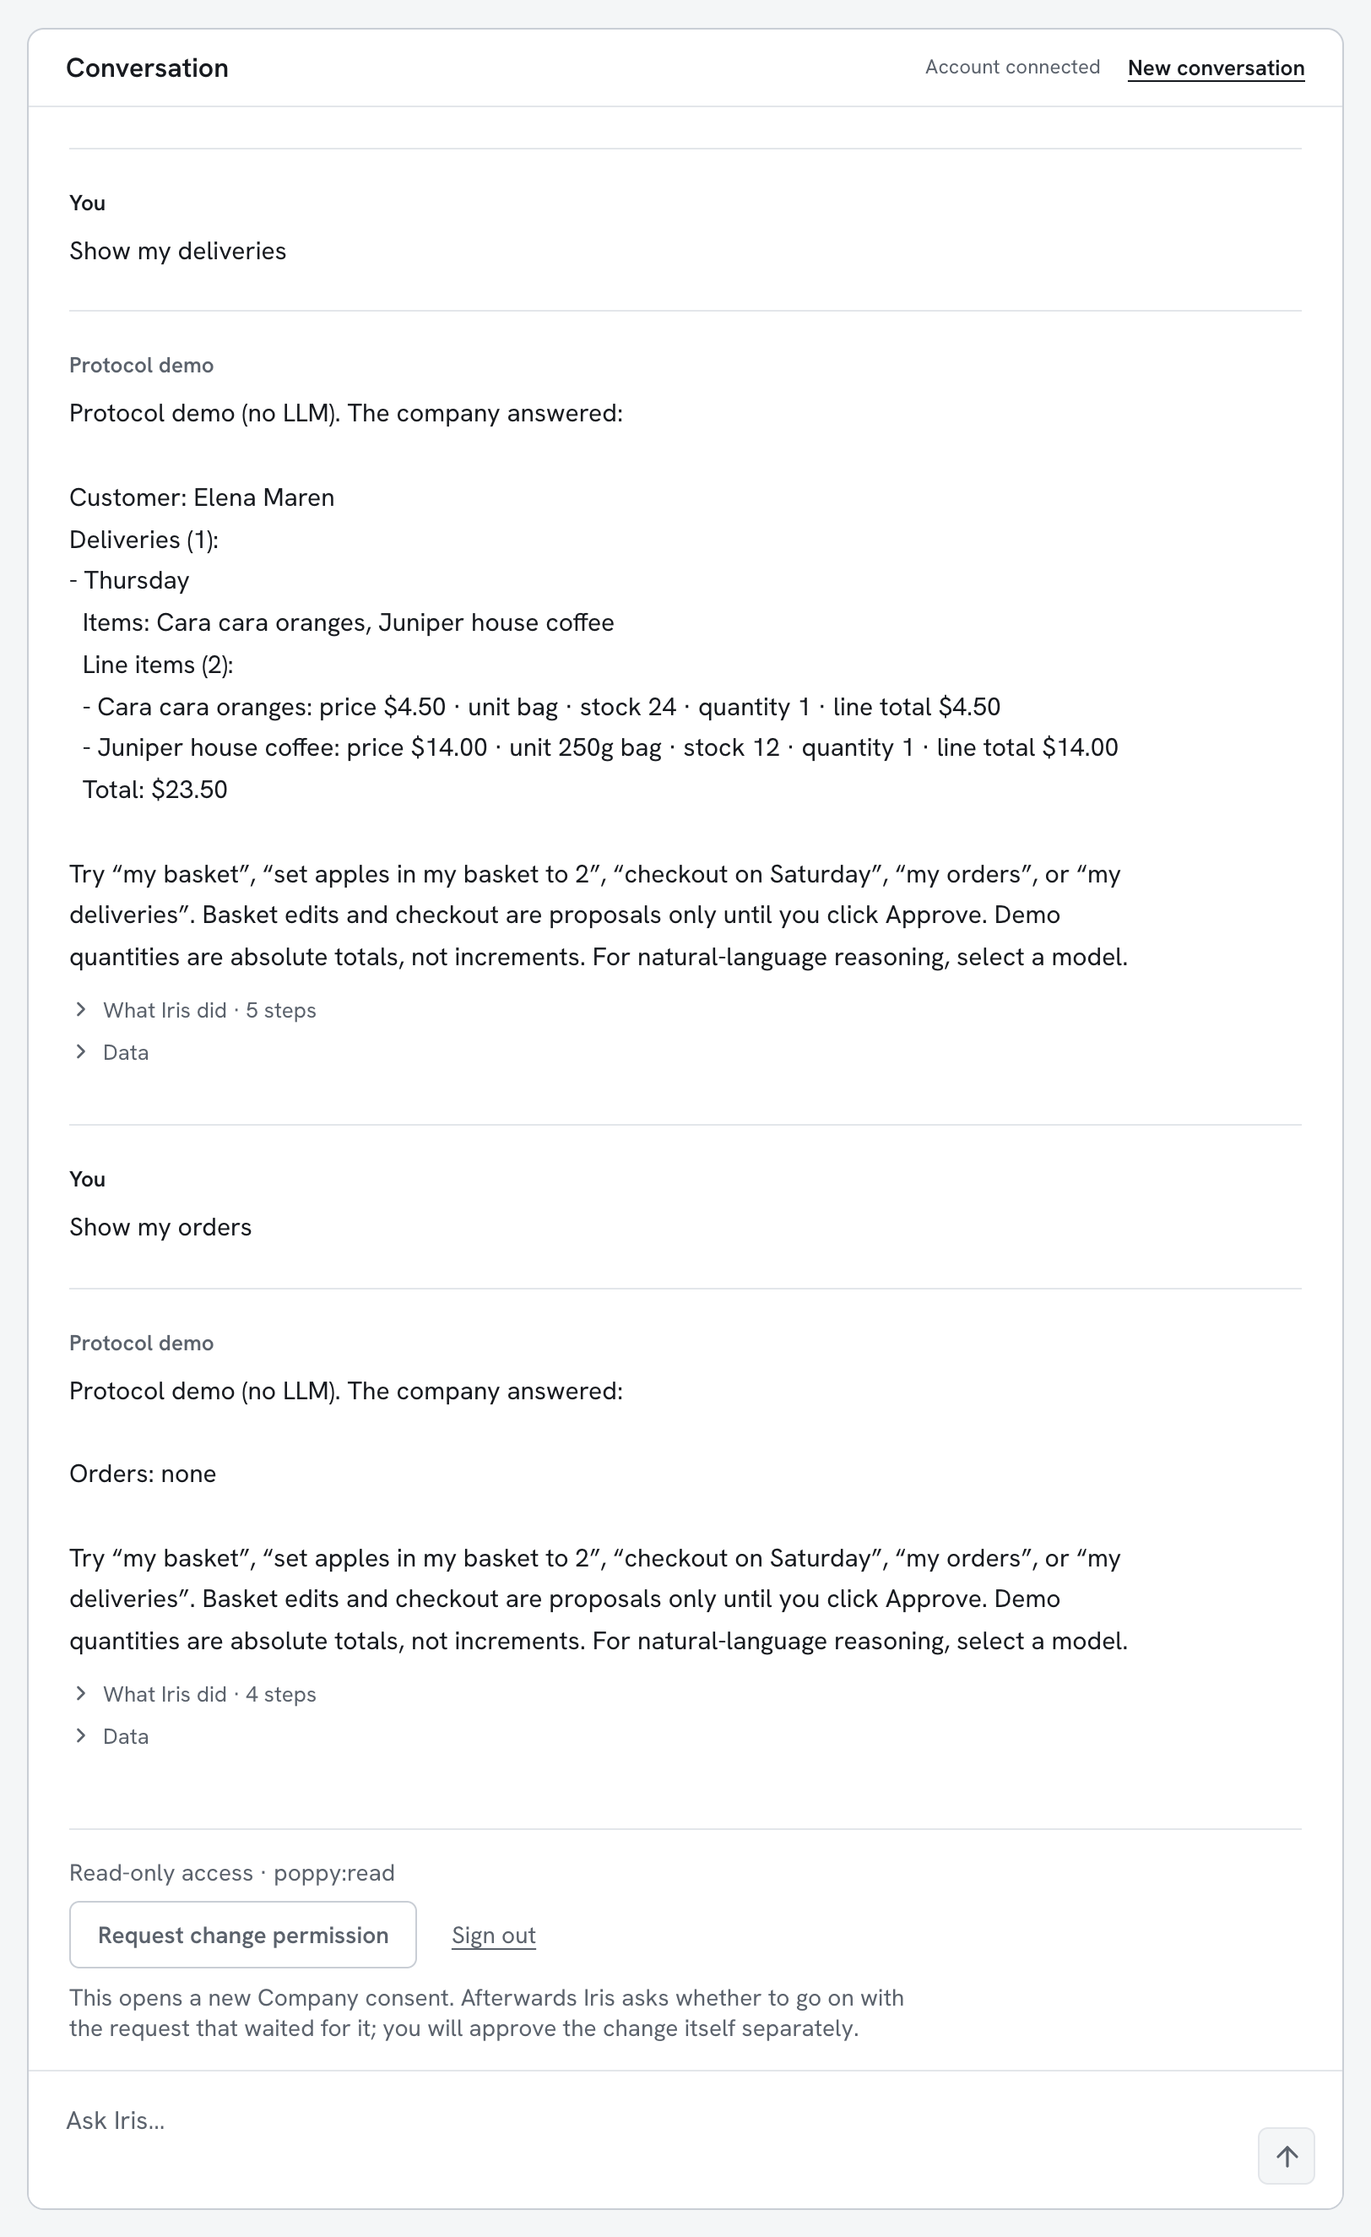
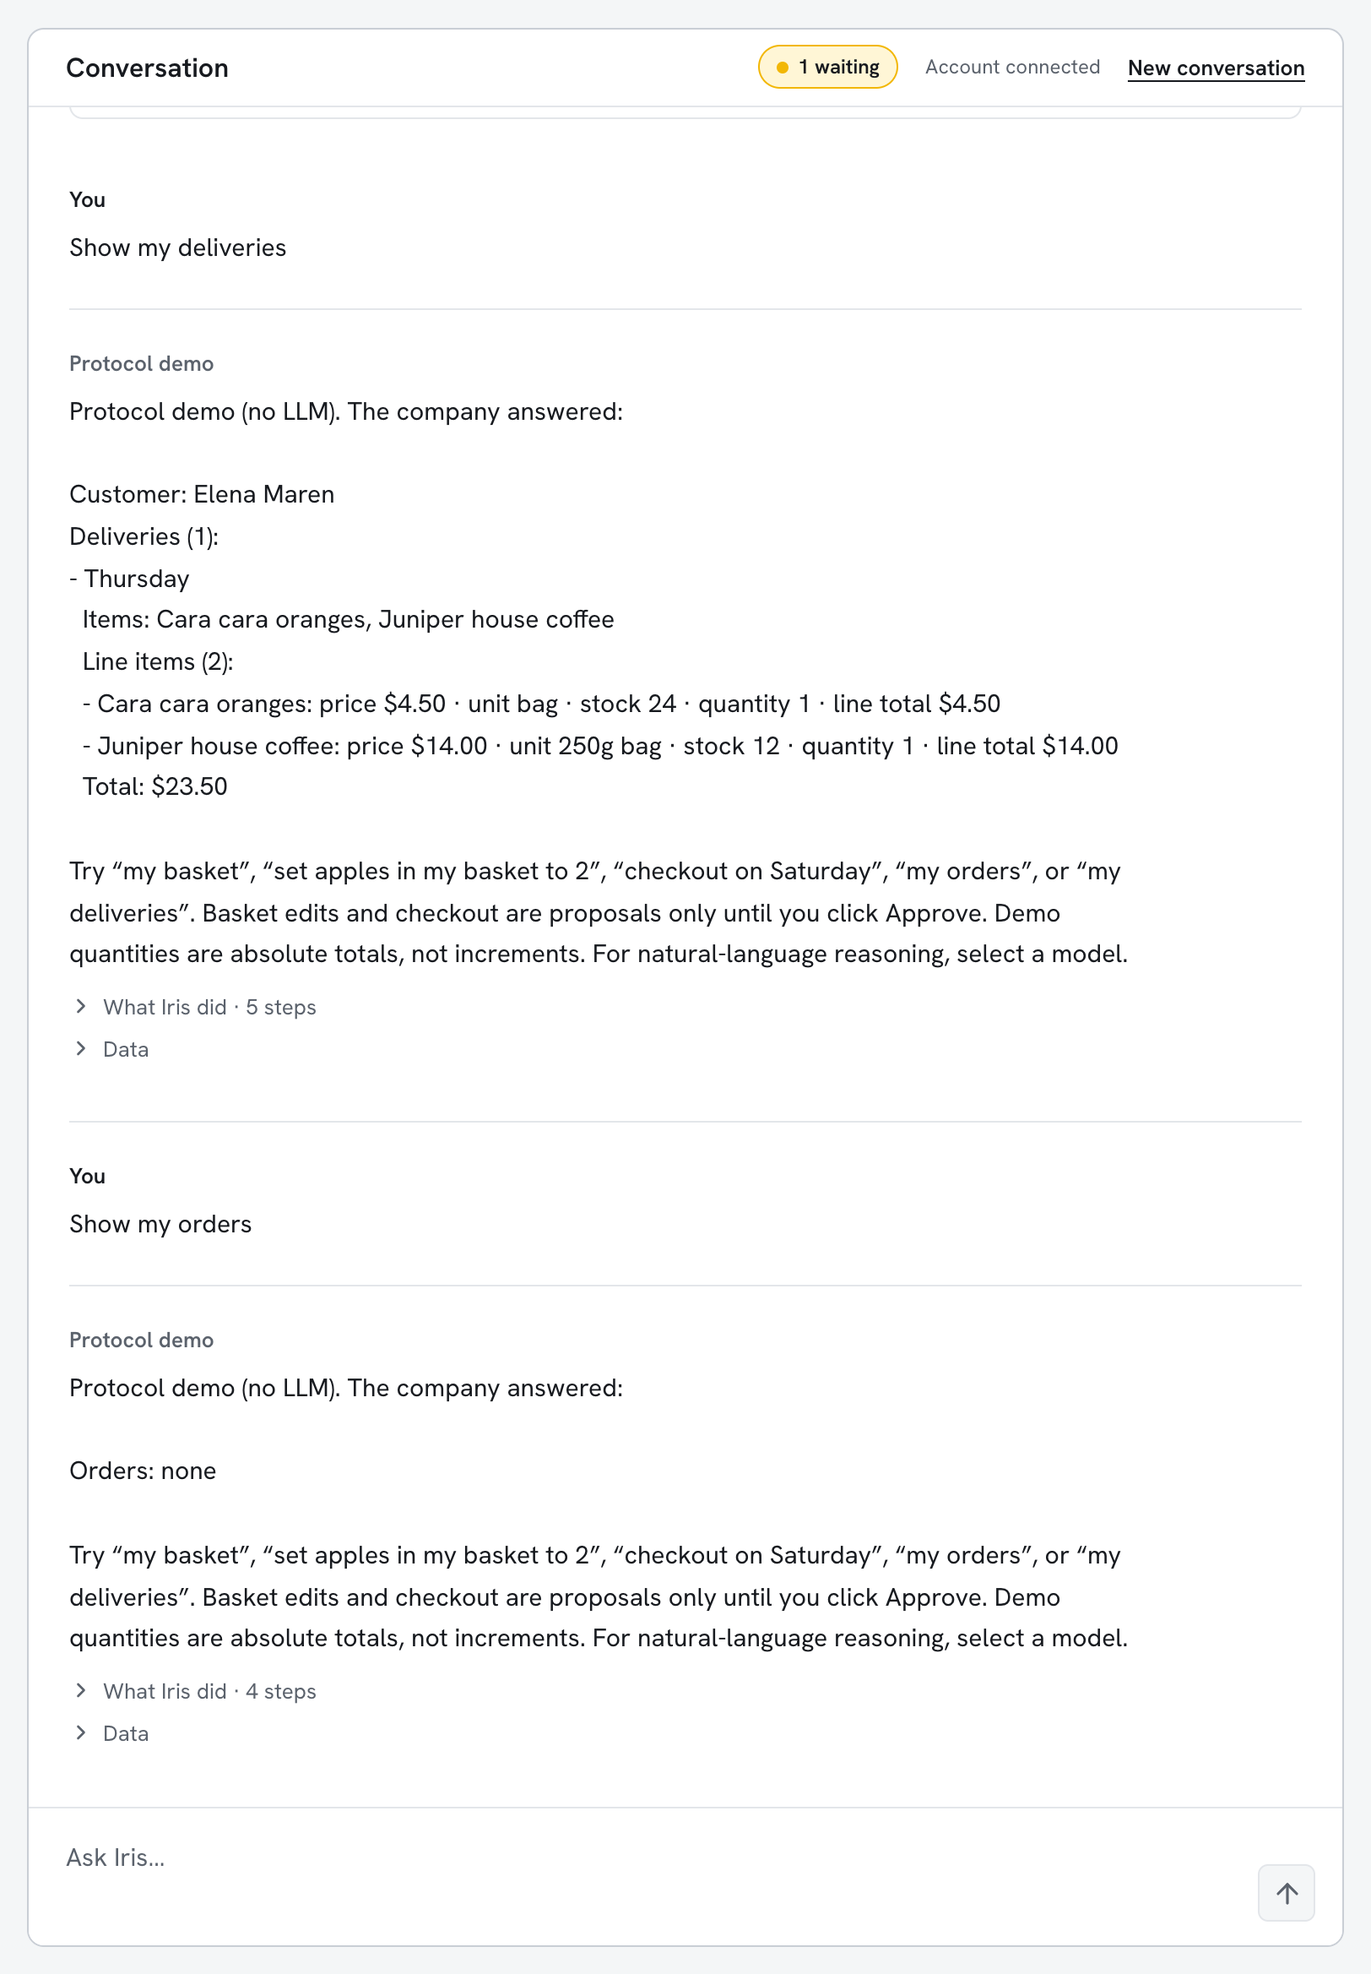
Show Juniper's sign-in blocks, proposal card and Iris's own voice in Learn
Connecting to a company and Signing in quote Iris's lines as it now says them, in the first person. They describe the sign-in and change-permission blocks in the conversation, the count of what waits in its heading, and the proposal card where the proposal arrived, with no Needs you panel. The access is shown in the Companies bar. Retaken on 28 November: Connecting 05, 06, 07 and Signing in 01, 03, 05, 07, 08, 09, 12.

diff --git a/docs/learn/how-it-works/signing-in-and-giving-permission.md b/docs/learn/how-it-works/signing-in-and-giving-permission.md
@@ -8,7 +8,7 @@ and later to propose changes. At the end she takes it back.
 
 This page follows the access from the first sign-in to the sign-out, in
 Iris's conversation and on Juniper's website. Every screenshot is from the
-live lab at [poppylab.dev](https://poppylab.dev), taken on 26 and 27 November 2026.
+live lab at [poppylab.dev](https://poppylab.dev), taken from 26 to 28 November 2026.
 
 ## Who does what
 
@@ -22,7 +22,7 @@ live lab at [poppylab.dev](https://poppylab.dev), taken on 26 and 27 November 20
 
 ### 1. Before signing in
 
-![Iris's conversation, marked Public access, with a green button: Sign in to Juniper Market, read only](../../../apps/playground/public/learn-media/how-it-works/signing-in-and-giving-permission/01-before-signing-in.webp "Iris can ask Juniper public questions. Elena's account is closed to it.")
+![Iris's conversation, marked Public access and 1 waiting, with two suggested questions and a block: Iris can read your Juniper Market account once you sign in, read only, on Juniper Market's own page, with a green button: Sign in to Juniper Market, read only](../../../apps/playground/public/learn-media/how-it-works/signing-in-and-giving-permission/01-before-signing-in.webp "Iris can ask Juniper public questions. Elena's account is closed to it.")
 
 Iris has found Juniper and can ask what any visitor could ask, such as what
 the shop sells. The conversation is marked Public access. Elena's deliveries
@@ -30,10 +30,12 @@ and orders belong to her account, and Iris has no access to it.
 [Connecting to a company](connecting-to-a-company.md) covers this first
 contact.
 
-The green button says what Iris will ask for: access to read, and nothing
-more. Above the conversation, the lab's hint says Elena can also answer "yes"
-when Iris asks her in the chat. Before she presses it, Elena asks what the shop sells, and Iris answers
-with Juniper's four products.
+The sign-in sits in the conversation as a block of its own, and the heading
+counts it among what waits for Elena. Its green button says what Iris will
+ask for: access to read, and nothing more. Above the conversation, the lab's
+hint says Elena can also answer "yes" when Iris asks her in the chat. Before
+she presses it, Elena asks what the shop sells, and Iris answers with
+Juniper's four products.
 
 ### 2. Sign in at Juniper
 
@@ -71,7 +73,7 @@ shows these requests.
 
 ### 3. Iris reads the account
 
-![Iris shows Elena's recurring delivery: every Thursday, oranges and coffee, 23 dollars 50. Juniper answers that she has no orders yet, and the line below reads Read-only access with a Request change permission button and Sign out](../../../apps/playground/public/learn-media/how-it-works/signing-in-and-giving-permission/03-iris-reads-the-delivery.webp "With read-only access Iris can see the delivery and cannot propose a change to it.")
+![Iris shows Elena's recurring delivery: every Thursday, oranges and coffee, 23 dollars 50. Juniper answers that she has no orders yet. The heading reads Account connected](../../../apps/playground/public/learn-media/how-it-works/signing-in-and-giving-permission/03-iris-reads-the-delivery.webp "With read-only access Iris can see the delivery and cannot propose a change to it.")
 
 The tab that held Juniper's page now shows a page of the lab that reads
 "Signed in to Juniper Market." and offers to close the tab. Back in the
@@ -79,10 +81,11 @@ conversation, Elena asks for her deliveries and Iris reads them from Juniper:
 one delivery every Thursday, with oranges and coffee. She asks for her orders
 too, and Juniper answers that there are none yet.
 
-The line under the answers states what Iris may do at this point: read-only
-access. Next to it are the two things Elena can do about that. She can ask
-for change permission, or sign out. A note says that after a new consent Iris
-asks whether to go on with the request that waited for it.
+The sign-in block at the top now reads "Signed in at Juniper Market · read
+only", and the Companies bar above the conversation shows the access: signed
+in, read only. Sign out is there too. In the conversation, a new block says
+that to ask Juniper for a change Iris needs change permission there, with a
+Request change permission button.
 
 <details>
 <summary>What travelled</summary>
@@ -143,7 +146,7 @@ would look for it. The Disconnect button ends the access from Juniper's side.
 
 ### 5. Ask for a change too early
 
-![Elena asks to move her recurring delivery to Saturday. The answer says this needs the change permission, which her sign-in to Juniper Market doesn't include, and that Iris didn't send the request. Below it Iris asks whether to ask Juniper Market for change permission, with a button for it](../../../apps/playground/public/learn-media/how-it-works/signing-in-and-giving-permission/05-change-not-allowed-yet.webp "Reading and changing are separate permissions, and Iris holds only the first.")
+![Elena asks to move her recurring delivery to Saturday. The answer says this needs the change permission, which her sign-in to Juniper Market doesn't include, and that Iris didn't send the request. Below it Iris asks: Ask Juniper Market for change permission to go on with Move my recurring delivery to Saturday? with a button for it](../../../apps/playground/public/learn-media/how-it-works/signing-in-and-giving-permission/05-change-not-allowed-yet.webp "Reading and changing are separate permissions, and Iris holds only the first.")
 
 Elena asks Iris to move the delivery to Saturday. Iris does not send the
 request. Juniper's API says that proposing a change needs a second
@@ -151,9 +154,10 @@ permission, and Elena gave only the one to read. Nothing changed: Juniper's
 website still showed Thursday and no proposal from the agent.
 
 The answer says what is missing and what happened: the request needs the
-change permission, and Iris didn't send it to Juniper. Then Iris asks whether
-to ask Juniper for that permission, so that it can go on with her request.
-Nothing changes until Elena approves the change itself.
+change permission, and Iris didn't send it to Juniper. Then Iris asks: "Ask
+Juniper Market for change permission to go on with 'Move my recurring
+delivery to Saturday'? Juniper Market's page opens again, and nothing changes
+until you approve the change itself."
 
 <details>
 <summary>What travelled</summary>
@@ -211,11 +215,12 @@ entry Juniper lists for Iris afterwards, with both permissions.
 
 ### 7. Iris asks to go on
 
-![Iris says Juniper Market's own page is open in a new tab for the change permission, then: You're signed in at Juniper Market. Shall Iris go on with Move my recurring delivery to Saturday? A button reads Yes, go on](../../../apps/playground/public/learn-media/how-it-works/signing-in-and-giving-permission/07-iris-asks-to-go-on.webp "Iris waits for Elena's word before it sends the request it held back.")
+![Iris says: Juniper Market's own page is open in a new tab for the change permission. Sign in there; I never see your password. Then: You're signed in at Juniper Market. Shall I go on with Move my recurring delivery to Saturday? A button reads Yes, go on, and a block below reads Change permission given at Juniper Market](../../../apps/playground/public/learn-media/how-it-works/signing-in-and-giving-permission/07-iris-asks-to-go-on.webp "Iris waits for Elena's word before it sends the request it held back.")
 
-Back in the conversation, Iris says that Elena is signed in at Juniper and
-asks whether to go on with "Move my recurring delivery to Saturday". It does
-not send the request by itself.
+Back in the conversation, a block reads "Change permission given at Juniper
+Market", and Iris asks: "You're signed in at Juniper Market. Shall I go on
+with 'Move my recurring delivery to Saturday'?" It does not send the request
+by itself.
 
 When the access changed, what had been said since the first sign-in left the
 conversation: her deliveries, her orders and the request Iris had not sent.
@@ -223,16 +228,17 @@ Her question from before that sign-in stayed, with its answer.
 
 ### 8. Go on with the request
 
-![Elena asks again. Iris says Juniper is holding the change, the access line reads Reading and change proposals, and a panel titled Needs you shows Thursday to Saturday with an Approve button](../../../apps/playground/public/learn-media/how-it-works/signing-in-and-giving-permission/08-ask-again.webp "With the second permission Iris may ask. Juniper still waits for Elena.")
+![Elena answers yes. The answer says Juniper is holding the change, Iris asks whether to approve it, and below a card from Juniper Market reads Waiting for you: Change delivery day, from Thursday to Saturday, a change fee of 0 dollars, and the buttons Approve this change and Decline](../../../apps/playground/public/learn-media/how-it-works/signing-in-and-giving-permission/08-ask-again.webp "With the second permission Iris may ask. Juniper still waits for Elena.")
 
 Elena answers "yes", and Iris sends the request. Juniper does not make the
 change. It answers that the change needs the customer's approval and sends
 back the terms it would apply: the delivery moves from Thursday to Saturday,
-at no charge. Iris shows them in a panel called Needs you.
+at no charge. Iris shows them as a card in the conversation, where the
+proposal arrived, and the heading counts it as waiting.
 
-Iris then asks in its own words, from the terms: Juniper Market proposes a
-change to her recurring delivery day, from Thursday to Saturday, the fee is
-$0.00, and the terms expire in 10 minutes. Approve it?
+Iris asks in its own words, from the terms: "Juniper Market wants to change
+your recurring delivery day from Thursday to Saturday. There's no fee. It
+expires in 10 minutes. Shall I approve it?"
 
 <details>
 <summary>What travelled</summary>
@@ -270,12 +276,14 @@ Juniper's answer to the request, as Iris received it:
 
 ### 9. Approve
 
-![The entry Change delivery day now reads Completed, with Juniper's confirmation that the delivery repeats weekly on Saturday and the line Approved by you](../../../apps/playground/public/learn-media/how-it-works/signing-in-and-giving-permission/09-approved.webp "Juniper made the change when the approval arrived, and said so.")
+![The card Change delivery day now reads Approved by you, with Juniper's confirmation that the delivery repeats weekly on Saturday. Below it Elena's answer approve, and Iris: Done. You approved the change at Juniper Market, and Juniper Market has carried it out](../../../apps/playground/public/learn-media/how-it-works/signing-in-and-giving-permission/09-approved.webp "Juniper made the change when the approval arrived, and said so.")
 
-Elena answers "approve". Pressing Approve this change in the panel does the
+Elena answers "approve". Pressing Approve this change on the card does the
 same. Iris sends Juniper the same request again, this time with her approval
 attached, and Juniper confirms: the delivery now repeats weekly on Saturday.
-Iris says that she approved the change and that Juniper performed it.
+Iris says: "Done. You approved the change at Juniper Market, and Juniper
+Market has carried it out." The card stays where it arrived and reads
+Approved by you.
 
 The permission from step 6 allowed Iris to ask for the change. Elena's
 approval is what allowed Juniper to make it. Iris takes that approval only
@@ -303,14 +311,15 @@ because the second consent replaced the first.
 
 ### 12. Sign out
 
-![After signing out, the conversation is marked Public access again. A request for the deliveries is answered: this needs your account at Juniper Market, you are not signed in, and Iris didn't send the request. Iris then asks whether to sign in again](../../../apps/playground/public/learn-media/how-it-works/signing-in-and-giving-permission/12-signed-out.webp "After Sign out, Iris is back to what any visitor can ask.")
+![After signing out, the conversation is marked Public access again. A request for the deliveries is answered: this needs your account at Juniper Market, you are not signed in, and Iris didn't send the request. Iris then asks: Sign in on Juniper Market's own page to go on with Show my deliveries?](../../../apps/playground/public/learn-media/how-it-works/signing-in-and-giving-permission/12-signed-out.webp "After Sign out, Iris is back to what any visitor can ask.")
 
 Elena opens Juniper Market in the bar above the conversation, where its line
 reads "Reading and change proposals", and presses Sign out. The answers Iris
 got with her account leave the conversation, and it is marked Public access
 again. When she asks for her deliveries, Iris answers as it would have before
 she signed in: the request needs her account, she is not signed in, and Iris
-didn't send it to Juniper. Iris offers to sign in again.
+didn't send it to Juniper. Iris asks whether to sign in again to go on
+with the request.
 
 <details>
 <summary>What travelled</summary>

diff --git a/docs/learn/how-it-works/connecting-to-a-company.md b/docs/learn/how-it-works/connecting-to-a-company.md
@@ -8,7 +8,7 @@ what an agent may see while no customer has signed in.
 
 This page follows that first contact screen by screen, on Juniper's website
 and in Iris's conversation. Every screenshot is from the live lab at
-[poppylab.dev](https://poppylab.dev), taken on 26 and 27 November 2026.
+[poppylab.dev](https://poppylab.dev), taken from 26 to 28 November 2026.
 
 ## Who does what
 
@@ -149,7 +149,7 @@ shows the two sign-in documents.
 
 ### 5. Ask what is public
 
-![Iris lists Juniper's four products with prices and stock](../../../apps/playground/public/learn-media/how-it-works/connecting-to-a-company/05-products-without-an-account.webp "The catalogue is public, so Iris can read it before Elena signs in.")
+![At the top of the conversation a block says Iris can read her Juniper Market account once she signs in, read only, with a green button. Below it Iris lists Juniper's four products with prices and stock](../../../apps/playground/public/learn-media/how-it-works/connecting-to-a-company/05-products-without-an-account.webp "The catalogue is public, so Iris can read it before Elena signs in.")
 
 Elena asks what Juniper sells. Juniper answers, because it decided that its
 catalogue is public. The four products and their prices are the ones on the
@@ -242,16 +242,17 @@ Read /api/delivery
 
 ### 7. Ask about the account
 
-![Elena asks for her orders. The answer says this needs her account at Juniper Market, that she is not signed in and that Iris didn't send the request. Below it Iris asks whether to sign in to Juniper Market to go on with Show my orders, with a button to sign in read only](../../../apps/playground/public/learn-media/how-it-works/connecting-to-a-company/07-orders-need-sign-in.webp "Orders belong to an account, and no account is connected yet.")
+![Elena asks for her orders. The answer says this needs her account at Juniper Market, that she is not signed in and that Iris didn't send the request. Below it Iris asks: Sign in on Juniper Market's own page to go on with Show my orders? It's read only, and I never see your password. The heading reads 1 waiting](../../../apps/playground/public/learn-media/how-it-works/connecting-to-a-company/07-orders-need-sign-in.webp "Orders belong to an account, and no account is connected yet.")
 
 Elena asks for her orders. This time there is no answer to give: orders
 belong to an account, and Iris has no permission to read hers. Iris says that
 the request needs her account at Juniper, that she is not signed in, and that
 it didn't send the request to the company.
 
-Then Iris asks a question of its own: sign in to Juniper Market to go on with
-"Show my orders"? Elena can press the button under the question or answer
-"yes" in the chat. Either way the sign-in happens on Juniper's own page, and
+Then Iris asks in its own words: "Sign in on Juniper Market's own page to go
+on with 'Show my orders'? It's read only, and I never see your password." The
+conversation's heading counts what waits for Elena. She can press the button
+under the question or answer "yes" in the chat. Either way the sign-in happens on Juniper's own page, and
 once it is done Iris can go on with her request.
 
 Juniper drew this line. In the description of its API, the catalogue and the
@@ -269,6 +270,7 @@ Inspector lists it as "Not sent · GET /api/account/orders · sign-in needed".
 
 ```text
 Started a Poppy Session, signed out
+Read /poppy/tasks
 Company Agent conversations at https://grocery-demo.poppylab.dev/poppy/conversations
 Found 19 API tools at the Company
 Did not send a request to /api/account/orders (sign-in needed)
